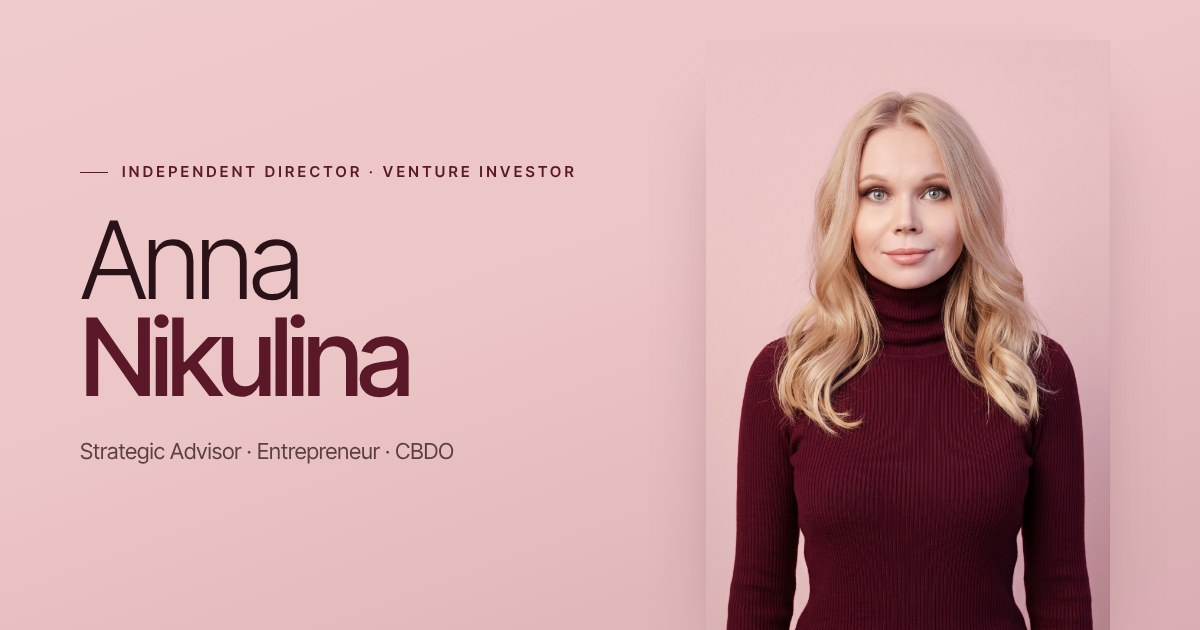
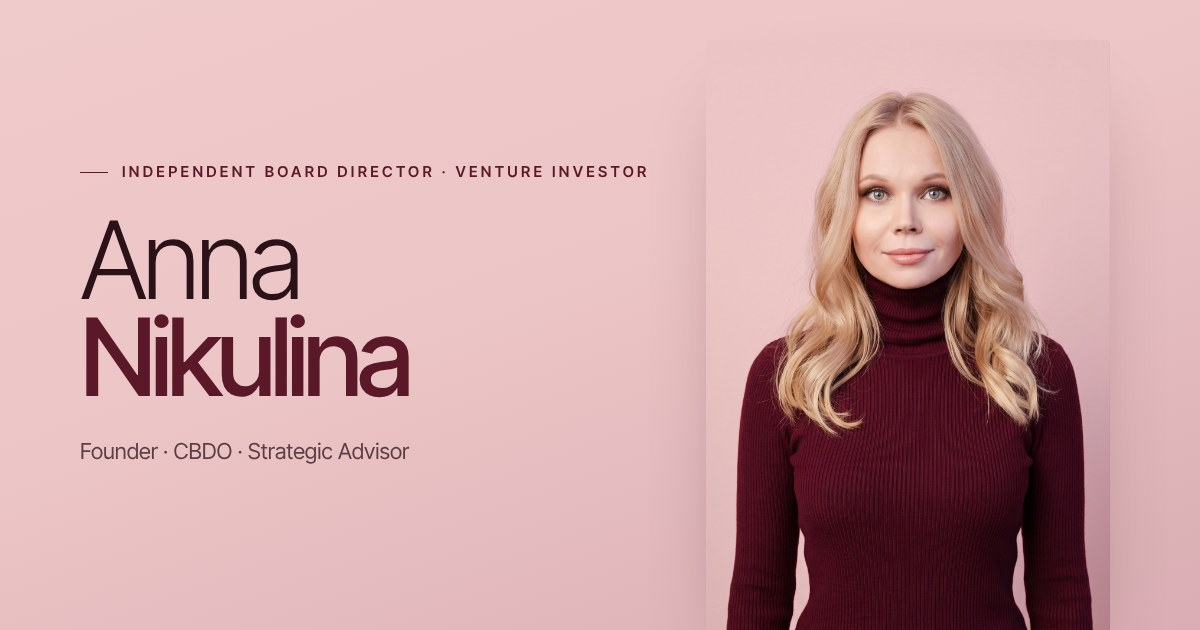
Hero: Founder wording, no bold in lead, board director eyebrow larger
Claude-Session: https://claude.ai/code/session_017zF6NKWSFQoNCEWFPX3gsG

Changed region(s): [[0.2158, 0.2413, 0.5242, 0.3016], [0.0617, 0.6937, 0.37, 0.754]]

diff --git a/annanikulina/index.html b/annanikulina/index.html
@@ -45,9 +45,9 @@
     <div class="hero-word" data-speed="0.35" aria-hidden="true">Никулина</div>
     <div class="wrap">
       <div class="hero-text">
-        <div class="eyebrow reveal">Независимый директор · Венчурный инвестор</div>
+        <div class="eyebrow reveal">Независимый директор в СД · Венчурный инвестор</div>
         <h1 class="reveal d1">Анна<span class="l2">Никулина</span></h1>
-        <p class="hero-lead reveal d2">Предприниматель, <strong>директор по развитию</strong> и <strong>советник по стратегическому развитию</strong>. Помогаю собственникам, инвесторам и стартапам принимать решения, которые выдерживают проверку временем.</p>
+        <p class="hero-lead reveal d2">Основатель, директор по развитию и советник по стратегическому развитию. Помогаю собственникам, инвесторам и стартапам принимать решения, которые выдерживают проверку временем.</p>
         <div class="hero-cta reveal d3">
           <a class="btn btn-wine" href="#contact">Связаться<svg viewBox="0 0 24 24" fill="none" stroke="currentColor" stroke-width="1.6" aria-hidden="true"><path d="M5 12h14M13 6l6 6-6 6"/></svg></a>
           <ul class="icon-row" aria-label="Мои каналы и соцсети"><li><a href="https://www.linkedin.com/in/anna-nikulina-cbdo/" target="_blank" rel="noopener" aria-label="LinkedIn: Anna Nikulina" title="LinkedIn: Anna Nikulina"><svg viewBox="0 0 24 24" fill="currentColor" aria-hidden="true"><path d="M4.98 3.5a2.5 2.5 0 1 1 0 5 2.5 2.5 0 0 1 0-5zM3 9.5h4V21H3zM10 9.5h3.8v1.6h.06c.53-1 1.83-2.06 3.77-2.06 4.03 0 4.77 2.65 4.77 6.1V21h-4v-5.1c0-1.22-.02-2.79-1.7-2.79-1.7 0-1.96 1.33-1.96 2.7V21h-4z"/></svg></a></li><li><a href="https://t.me/Anna_Niku" target="_blank" rel="noopener" aria-label="Написать в Telegram: @Anna_Niku" title="Написать в Telegram: @Anna_Niku"><svg viewBox="0 0 24 24" fill="currentColor" aria-hidden="true"><path d="M21.9 4.3 18.7 19.4c-.24 1.07-.87 1.33-1.76.83l-4.87-3.59-2.35 2.26c-.26.26-.48.48-.98.48l.35-4.96 9.03-8.16c.39-.35-.09-.54-.61-.2L6.36 13.1l-4.8-1.5c-1.04-.33-1.06-1.04.22-1.54L20.5 2.85c.87-.32 1.63.2 1.4 1.45z"/></svg></a></li><li class="has-word"><a href="https://t.me/STRATEGYNikulina" target="_blank" rel="noopener" aria-label="Telegram-канал STRATEGY" title="Telegram-канал STRATEGY"><svg viewBox="0 0 24 24" fill="currentColor" aria-hidden="true"><path d="M21.9 4.3 18.7 19.4c-.24 1.07-.87 1.33-1.76.83l-4.87-3.59-2.35 2.26c-.26.26-.48.48-.98.48l.35-4.96 9.03-8.16c.39-.35-.09-.54-.61-.2L6.36 13.1l-4.8-1.5c-1.04-.33-1.06-1.04.22-1.54L20.5 2.85c.87-.32 1.63.2 1.4 1.45z"/></svg><span>канал</span></a></li><li><a href="https://www.youtube.com/@STRATEGYNikulina" target="_blank" rel="noopener" aria-label="YouTube-канал STRATEGY" title="YouTube-канал STRATEGY"><svg viewBox="0 0 24 24" fill="currentColor" fill-rule="evenodd" aria-hidden="true"><path d="M23 7.2a3 3 0 0 0-2.1-2.1C19 4.6 12 4.6 12 4.6s-7 0-8.9.5A3 3 0 0 0 1 7.2 31 31 0 0 0 .5 12a31 31 0 0 0 .5 4.8 3 3 0 0 0 2.1 2.1c1.9.5 8.9.5 8.9.5s7 0 8.9-.5a3 3 0 0 0 2.1-2.1 31 31 0 0 0 .5-4.8 31 31 0 0 0-.5-4.8zM9.75 15.02V8.98L15.5 12z"/></svg></a></li><li><a href="https://rutube.ru/channel/30327202" target="_blank" rel="noopener" aria-label="RuTube-канал" title="RuTube-канал"><svg viewBox="0 0 24 24" aria-hidden="true"><rect x="2.6" y="2.6" width="18.8" height="18.8" rx="5" fill="none" stroke="currentColor" stroke-width="1.8"/><path d="M8.6 17V7.2h4.5a2.8 2.8 0 0 1 0 5.6H8.6M12.5 12.8l3 4.2" fill="none" stroke="currentColor" stroke-width="1.8" stroke-linecap="round" stroke-linejoin="round"/><circle cx="17" cy="7" r="1.4" fill="currentColor"/></svg></a></li></ul>
@@ -68,9 +68,9 @@
     <div class="wrap">
       <div class="section-head">
         <div class="reveal"><div class="eyebrow">Опыт</div><h2 class="h2">Опыт, который <b>работает</b> на результат</h2></div>
-        <p class="reveal d1">Банковский сектор, предпринимательство, венчурные инвестиции и участие в законотворчестве. Смотрю на бизнес одновременно глазами собственника, инвестора и риск-менеджера.</p>
+        <p class="reveal d1">Банковский сектор, создание собственных компаний, венчурные инвестиции и участие в законотворчестве. Смотрю на бизнес одновременно глазами собственника, инвестора и риск-менеджера.</p>
       </div>
-      <div class="xp"><article class="xp-item reveal"><div class="xp-num">01</div><h3 class="xp-title">Предпринимательский опыт B2B&nbsp;|&nbsp;B2C</h3><ul class="xp-list"><li>Совладелец российского бренда в сфере красоты и здоровья</li><li>Сооснователь глобального ИТ-стартапа</li><li>Ex-основатель FinTech-стартапа в России</li></ul></article><article class="xp-item reveal"><div class="xp-num">02</div><h3 class="xp-title">Банковский сектор</h3><ul class="xp-list"><li>Ex-Управляющий директор в ТОП-10 банках РФ (10+ тыс. сотрудников, активы ₽2 трлн)</li><li>Создание и управление корпоративными кредитными портфелями (миллиардные объёмы)</li><li>Эксперт по оценке устойчивости и кредитованию бизнеса и проектов: от МСБ до промышленных гигантов</li><li>Риск-менеджер с опытом антикризисного управления</li></ul></article><article class="xp-item reveal"><div class="xp-num">03</div><h3 class="xp-title">Инвестор</h3><ul class="xp-list"><li>Венчурный инвестор в технологические стартапы ранних стадий (глобальные рынки, успешный экзит)</li><li>Приглашённый эксперт и член жюри конкурсов стартапов</li></ul></article><article class="xp-item reveal"><div class="xp-num">04</div><h3 class="xp-title">Законодательная деятельность</h3><ul class="xp-list"><li>Участие в разработке ФЗ №259 «Об инвестиционных платформах» со стороны бизнеса</li></ul></article><article class="xp-item reveal"><div class="xp-num">05</div><h3 class="xp-title">Управленческий опыт</h3><ul class="xp-list"><li>15+ лет опыта в управлении (50+ филиалов, международные команды)</li><li>Риск-ориентированное и антикризисное управление</li></ul></article></div>
+      <div class="xp"><article class="xp-item reveal"><div class="xp-num">01</div><h3 class="xp-title">Опыт основателя B2B&nbsp;|&nbsp;B2C</h3><ul class="xp-list"><li>Совладелец российского бренда в сфере красоты и здоровья</li><li>Сооснователь глобального ИТ-стартапа</li><li>Ex-основатель FinTech-стартапа в России</li></ul></article><article class="xp-item reveal"><div class="xp-num">02</div><h3 class="xp-title">Банковский сектор</h3><ul class="xp-list"><li>Ex-Управляющий директор в ТОП-10 банках РФ (10+ тыс. сотрудников, активы ₽2 трлн)</li><li>Создание и управление корпоративными кредитными портфелями (миллиардные объёмы)</li><li>Эксперт по оценке устойчивости и кредитованию бизнеса и проектов: от МСБ до промышленных гигантов</li><li>Риск-менеджер с опытом антикризисного управления</li></ul></article><article class="xp-item reveal"><div class="xp-num">03</div><h3 class="xp-title">Инвестор</h3><ul class="xp-list"><li>Венчурный инвестор в технологические стартапы ранних стадий (глобальные рынки, успешный экзит)</li><li>Приглашённый эксперт и член жюри конкурсов стартапов</li></ul></article><article class="xp-item reveal"><div class="xp-num">04</div><h3 class="xp-title">Законодательная деятельность</h3><ul class="xp-list"><li>Участие в разработке ФЗ №259 «Об инвестиционных платформах» со стороны бизнеса</li></ul></article><article class="xp-item reveal"><div class="xp-num">05</div><h3 class="xp-title">Управленческий опыт</h3><ul class="xp-list"><li>15+ лет опыта в управлении (50+ филиалов, международные команды)</li><li>Риск-ориентированное и антикризисное управление</li></ul></article></div>
     </div>
   </section>
 
@@ -118,7 +118,7 @@
 </main>
 
 <footer class="footer">
-  <div class="wrap"><span>© 2026 Анна Никулина</span><ul class="icon-row icon-row-sm" aria-label="Мои каналы и соцсети"><li><a href="https://www.linkedin.com/in/anna-nikulina-cbdo/" target="_blank" rel="noopener" aria-label="LinkedIn: Anna Nikulina" title="LinkedIn: Anna Nikulina"><svg viewBox="0 0 24 24" fill="currentColor" aria-hidden="true"><path d="M4.98 3.5a2.5 2.5 0 1 1 0 5 2.5 2.5 0 0 1 0-5zM3 9.5h4V21H3zM10 9.5h3.8v1.6h.06c.53-1 1.83-2.06 3.77-2.06 4.03 0 4.77 2.65 4.77 6.1V21h-4v-5.1c0-1.22-.02-2.79-1.7-2.79-1.7 0-1.96 1.33-1.96 2.7V21h-4z"/></svg></a></li><li><a href="https://t.me/Anna_Niku" target="_blank" rel="noopener" aria-label="Написать в Telegram: @Anna_Niku" title="Написать в Telegram: @Anna_Niku"><svg viewBox="0 0 24 24" fill="currentColor" aria-hidden="true"><path d="M21.9 4.3 18.7 19.4c-.24 1.07-.87 1.33-1.76.83l-4.87-3.59-2.35 2.26c-.26.26-.48.48-.98.48l.35-4.96 9.03-8.16c.39-.35-.09-.54-.61-.2L6.36 13.1l-4.8-1.5c-1.04-.33-1.06-1.04.22-1.54L20.5 2.85c.87-.32 1.63.2 1.4 1.45z"/></svg></a></li><li class="has-word"><a href="https://t.me/STRATEGYNikulina" target="_blank" rel="noopener" aria-label="Telegram-канал STRATEGY" title="Telegram-канал STRATEGY"><svg viewBox="0 0 24 24" fill="currentColor" aria-hidden="true"><path d="M21.9 4.3 18.7 19.4c-.24 1.07-.87 1.33-1.76.83l-4.87-3.59-2.35 2.26c-.26.26-.48.48-.98.48l.35-4.96 9.03-8.16c.39-.35-.09-.54-.61-.2L6.36 13.1l-4.8-1.5c-1.04-.33-1.06-1.04.22-1.54L20.5 2.85c.87-.32 1.63.2 1.4 1.45z"/></svg><span>канал</span></a></li><li><a href="https://www.youtube.com/@STRATEGYNikulina" target="_blank" rel="noopener" aria-label="YouTube-канал STRATEGY" title="YouTube-канал STRATEGY"><svg viewBox="0 0 24 24" fill="currentColor" fill-rule="evenodd" aria-hidden="true"><path d="M23 7.2a3 3 0 0 0-2.1-2.1C19 4.6 12 4.6 12 4.6s-7 0-8.9.5A3 3 0 0 0 1 7.2 31 31 0 0 0 .5 12a31 31 0 0 0 .5 4.8 3 3 0 0 0 2.1 2.1c1.9.5 8.9.5 8.9.5s7 0 8.9-.5a3 3 0 0 0 2.1-2.1 31 31 0 0 0 .5-4.8 31 31 0 0 0-.5-4.8zM9.75 15.02V8.98L15.5 12z"/></svg></a></li><li><a href="https://rutube.ru/channel/30327202" target="_blank" rel="noopener" aria-label="RuTube-канал" title="RuTube-канал"><svg viewBox="0 0 24 24" aria-hidden="true"><rect x="2.6" y="2.6" width="18.8" height="18.8" rx="5" fill="none" stroke="currentColor" stroke-width="1.8"/><path d="M8.6 17V7.2h4.5a2.8 2.8 0 0 1 0 5.6H8.6M12.5 12.8l3 4.2" fill="none" stroke="currentColor" stroke-width="1.8" stroke-linecap="round" stroke-linejoin="round"/><circle cx="17" cy="7" r="1.4" fill="currentColor"/></svg></a></li></ul><span>Независимый директор · Венчурный инвестор</span></div>
+  <div class="wrap"><span>© 2026 Анна Никулина</span><ul class="icon-row icon-row-sm" aria-label="Мои каналы и соцсети"><li><a href="https://www.linkedin.com/in/anna-nikulina-cbdo/" target="_blank" rel="noopener" aria-label="LinkedIn: Anna Nikulina" title="LinkedIn: Anna Nikulina"><svg viewBox="0 0 24 24" fill="currentColor" aria-hidden="true"><path d="M4.98 3.5a2.5 2.5 0 1 1 0 5 2.5 2.5 0 0 1 0-5zM3 9.5h4V21H3zM10 9.5h3.8v1.6h.06c.53-1 1.83-2.06 3.77-2.06 4.03 0 4.77 2.65 4.77 6.1V21h-4v-5.1c0-1.22-.02-2.79-1.7-2.79-1.7 0-1.96 1.33-1.96 2.7V21h-4z"/></svg></a></li><li><a href="https://t.me/Anna_Niku" target="_blank" rel="noopener" aria-label="Написать в Telegram: @Anna_Niku" title="Написать в Telegram: @Anna_Niku"><svg viewBox="0 0 24 24" fill="currentColor" aria-hidden="true"><path d="M21.9 4.3 18.7 19.4c-.24 1.07-.87 1.33-1.76.83l-4.87-3.59-2.35 2.26c-.26.26-.48.48-.98.48l.35-4.96 9.03-8.16c.39-.35-.09-.54-.61-.2L6.36 13.1l-4.8-1.5c-1.04-.33-1.06-1.04.22-1.54L20.5 2.85c.87-.32 1.63.2 1.4 1.45z"/></svg></a></li><li class="has-word"><a href="https://t.me/STRATEGYNikulina" target="_blank" rel="noopener" aria-label="Telegram-канал STRATEGY" title="Telegram-канал STRATEGY"><svg viewBox="0 0 24 24" fill="currentColor" aria-hidden="true"><path d="M21.9 4.3 18.7 19.4c-.24 1.07-.87 1.33-1.76.83l-4.87-3.59-2.35 2.26c-.26.26-.48.48-.98.48l.35-4.96 9.03-8.16c.39-.35-.09-.54-.61-.2L6.36 13.1l-4.8-1.5c-1.04-.33-1.06-1.04.22-1.54L20.5 2.85c.87-.32 1.63.2 1.4 1.45z"/></svg><span>канал</span></a></li><li><a href="https://www.youtube.com/@STRATEGYNikulina" target="_blank" rel="noopener" aria-label="YouTube-канал STRATEGY" title="YouTube-канал STRATEGY"><svg viewBox="0 0 24 24" fill="currentColor" fill-rule="evenodd" aria-hidden="true"><path d="M23 7.2a3 3 0 0 0-2.1-2.1C19 4.6 12 4.6 12 4.6s-7 0-8.9.5A3 3 0 0 0 1 7.2 31 31 0 0 0 .5 12a31 31 0 0 0 .5 4.8 3 3 0 0 0 2.1 2.1c1.9.5 8.9.5 8.9.5s7 0 8.9-.5a3 3 0 0 0 2.1-2.1 31 31 0 0 0 .5-4.8 31 31 0 0 0-.5-4.8zM9.75 15.02V8.98L15.5 12z"/></svg></a></li><li><a href="https://rutube.ru/channel/30327202" target="_blank" rel="noopener" aria-label="RuTube-канал" title="RuTube-канал"><svg viewBox="0 0 24 24" aria-hidden="true"><rect x="2.6" y="2.6" width="18.8" height="18.8" rx="5" fill="none" stroke="currentColor" stroke-width="1.8"/><path d="M8.6 17V7.2h4.5a2.8 2.8 0 0 1 0 5.6H8.6M12.5 12.8l3 4.2" fill="none" stroke="currentColor" stroke-width="1.8" stroke-linecap="round" stroke-linejoin="round"/><circle cx="17" cy="7" r="1.4" fill="currentColor"/></svg></a></li></ul><span>Независимый директор в СД · Венчурный инвестор</span></div>
 </footer>
 
 <script src="../assets/site.js" defer></script>

diff --git a/en/index.html b/en/index.html
@@ -45,9 +45,9 @@
     <div class="hero-word" data-speed="0.35" aria-hidden="true">Nikulina</div>
     <div class="wrap">
       <div class="hero-text">
-        <div class="eyebrow reveal">Independent Director · Venture Investor</div>
+        <div class="eyebrow reveal">Independent Board Director · Venture Investor</div>
         <h1 class="reveal d1">Anna<span class="l2">Nikulina</span></h1>
-        <p class="hero-lead reveal d2">Entrepreneur, <strong>Chief Business Development Officer</strong> and <strong>Strategic Advisor</strong>. I help business owners, investors and founders make decisions that stand the test of time.</p>
+        <p class="hero-lead reveal d2">Founder, Chief Business Development Officer and Strategic Advisor. I help business owners, investors and founders make decisions that stand the test of time.</p>
         <div class="hero-cta reveal d3">
           <a class="btn btn-wine" href="#contact">Get in Touch<svg viewBox="0 0 24 24" fill="none" stroke="currentColor" stroke-width="1.6" aria-hidden="true"><path d="M5 12h14M13 6l6 6-6 6"/></svg></a>
           <ul class="icon-row" aria-label="Channels &amp; social media"><li><a href="https://www.linkedin.com/in/anna-nikulina-cbdo/" target="_blank" rel="noopener" aria-label="LinkedIn: Anna Nikulina" title="LinkedIn: Anna Nikulina"><svg viewBox="0 0 24 24" fill="currentColor" aria-hidden="true"><path d="M4.98 3.5a2.5 2.5 0 1 1 0 5 2.5 2.5 0 0 1 0-5zM3 9.5h4V21H3zM10 9.5h3.8v1.6h.06c.53-1 1.83-2.06 3.77-2.06 4.03 0 4.77 2.65 4.77 6.1V21h-4v-5.1c0-1.22-.02-2.79-1.7-2.79-1.7 0-1.96 1.33-1.96 2.7V21h-4z"/></svg></a></li><li><a href="https://t.me/Anna_Niku" target="_blank" rel="noopener" aria-label="Message on Telegram: @Anna_Niku" title="Message on Telegram: @Anna_Niku"><svg viewBox="0 0 24 24" fill="currentColor" aria-hidden="true"><path d="M21.9 4.3 18.7 19.4c-.24 1.07-.87 1.33-1.76.83l-4.87-3.59-2.35 2.26c-.26.26-.48.48-.98.48l.35-4.96 9.03-8.16c.39-.35-.09-.54-.61-.2L6.36 13.1l-4.8-1.5c-1.04-.33-1.06-1.04.22-1.54L20.5 2.85c.87-.32 1.63.2 1.4 1.45z"/></svg></a></li><li class="has-word"><a href="https://t.me/STRATEGYNikulina" target="_blank" rel="noopener" aria-label="Telegram channel STRATEGY (in Russian)" title="Telegram channel STRATEGY (in Russian)"><svg viewBox="0 0 24 24" fill="currentColor" aria-hidden="true"><path d="M21.9 4.3 18.7 19.4c-.24 1.07-.87 1.33-1.76.83l-4.87-3.59-2.35 2.26c-.26.26-.48.48-.98.48l.35-4.96 9.03-8.16c.39-.35-.09-.54-.61-.2L6.36 13.1l-4.8-1.5c-1.04-.33-1.06-1.04.22-1.54L20.5 2.85c.87-.32 1.63.2 1.4 1.45z"/></svg><span>channel</span></a></li><li><a href="https://www.youtube.com/@STRATEGYNikulina" target="_blank" rel="noopener" aria-label="YouTube channel STRATEGY (in Russian)" title="YouTube channel STRATEGY (in Russian)"><svg viewBox="0 0 24 24" fill="currentColor" fill-rule="evenodd" aria-hidden="true"><path d="M23 7.2a3 3 0 0 0-2.1-2.1C19 4.6 12 4.6 12 4.6s-7 0-8.9.5A3 3 0 0 0 1 7.2 31 31 0 0 0 .5 12a31 31 0 0 0 .5 4.8 3 3 0 0 0 2.1 2.1c1.9.5 8.9.5 8.9.5s7 0 8.9-.5a3 3 0 0 0 2.1-2.1 31 31 0 0 0 .5-4.8 31 31 0 0 0-.5-4.8zM9.75 15.02V8.98L15.5 12z"/></svg></a></li><li><a href="https://rutube.ru/channel/30327202" target="_blank" rel="noopener" aria-label="RuTube channel (in Russian)" title="RuTube channel (in Russian)"><svg viewBox="0 0 24 24" aria-hidden="true"><rect x="2.6" y="2.6" width="18.8" height="18.8" rx="5" fill="none" stroke="currentColor" stroke-width="1.8"/><path d="M8.6 17V7.2h4.5a2.8 2.8 0 0 1 0 5.6H8.6M12.5 12.8l3 4.2" fill="none" stroke="currentColor" stroke-width="1.8" stroke-linecap="round" stroke-linejoin="round"/><circle cx="17" cy="7" r="1.4" fill="currentColor"/></svg></a></li></ul>
@@ -68,9 +68,9 @@
     <div class="wrap">
       <div class="section-head">
         <div class="reveal"><div class="eyebrow">Track Record</div><h2 class="h2">Experience that <b>delivers</b> results</h2></div>
-        <p class="reveal d1">Banking, entrepreneurship, venture investing and policymaking. I look at every business through three lenses at once: owner, investor and risk manager.</p>
+        <p class="reveal d1">Banking, company building, venture investing and policymaking. I look at every business through three lenses at once: owner, investor and risk manager.</p>
       </div>
-      <div class="xp"><article class="xp-item reveal"><div class="xp-num">01</div><h3 class="xp-title">Entrepreneurship: B2B&nbsp;|&nbsp;B2C</h3><ul class="xp-list"><li>Co-owner of a Russian health &amp; beauty brand</li><li>Co-founder of a global tech startup</li><li>Former founder of a fintech startup in Russia</li></ul></article><article class="xp-item reveal"><div class="xp-num">02</div><h3 class="xp-title">Banking</h3><ul class="xp-list"><li>Former Managing Director at Top 10 Russian banks (10,000+ employees, RUB 2 trillion in assets)</li><li>Built and managed multibillion-ruble corporate loan portfolios</li><li>Expert in credit risk and financial resilience assessment for businesses and projects, from SMBs to industrial majors</li><li>Risk manager with a track record in crisis and turnaround management</li></ul></article><article class="xp-item reveal"><div class="xp-num">03</div><h3 class="xp-title">Venture Investing</h3><ul class="xp-list"><li>Venture investor in early-stage tech startups (global markets, with a successful exit)</li><li>Invited expert and judge at startup pitch competitions</li></ul></article><article class="xp-item reveal"><div class="xp-num">04</div><h3 class="xp-title">Policy &amp; Legislation</h3><ul class="xp-list"><li>Contributed to drafting Federal Law No.&nbsp;259-FZ on investment platforms (crowdfunding) in Russia, representing the business community</li></ul></article><article class="xp-item reveal"><div class="xp-num">05</div><h3 class="xp-title">Executive Leadership</h3><ul class="xp-list"><li>15+ years in executive leadership (50+ branches, international teams)</li><li>Risk-based and crisis management</li></ul></article></div>
+      <div class="xp"><article class="xp-item reveal"><div class="xp-num">01</div><h3 class="xp-title">Founder Experience: B2B&nbsp;|&nbsp;B2C</h3><ul class="xp-list"><li>Co-owner of a Russian health &amp; beauty brand</li><li>Co-founder of a global tech startup</li><li>Former founder of a fintech startup in Russia</li></ul></article><article class="xp-item reveal"><div class="xp-num">02</div><h3 class="xp-title">Banking</h3><ul class="xp-list"><li>Former Managing Director at Top 10 Russian banks (10,000+ employees, RUB 2 trillion in assets)</li><li>Built and managed multibillion-ruble corporate loan portfolios</li><li>Expert in credit risk and financial resilience assessment for businesses and projects, from SMBs to industrial majors</li><li>Risk manager with a track record in crisis and turnaround management</li></ul></article><article class="xp-item reveal"><div class="xp-num">03</div><h3 class="xp-title">Venture Investing</h3><ul class="xp-list"><li>Venture investor in early-stage tech startups (global markets, with a successful exit)</li><li>Invited expert and judge at startup pitch competitions</li></ul></article><article class="xp-item reveal"><div class="xp-num">04</div><h3 class="xp-title">Policy &amp; Legislation</h3><ul class="xp-list"><li>Contributed to drafting Federal Law No.&nbsp;259-FZ on investment platforms (crowdfunding) in Russia, representing the business community</li></ul></article><article class="xp-item reveal"><div class="xp-num">05</div><h3 class="xp-title">Executive Leadership</h3><ul class="xp-list"><li>15+ years in executive leadership (50+ branches, international teams)</li><li>Risk-based and crisis management</li></ul></article></div>
     </div>
   </section>
 
@@ -118,7 +118,7 @@
 </main>
 
 <footer class="footer">
-  <div class="wrap"><span>© 2026 Anna Nikulina</span><ul class="icon-row icon-row-sm" aria-label="Channels &amp; social media"><li><a href="https://www.linkedin.com/in/anna-nikulina-cbdo/" target="_blank" rel="noopener" aria-label="LinkedIn: Anna Nikulina" title="LinkedIn: Anna Nikulina"><svg viewBox="0 0 24 24" fill="currentColor" aria-hidden="true"><path d="M4.98 3.5a2.5 2.5 0 1 1 0 5 2.5 2.5 0 0 1 0-5zM3 9.5h4V21H3zM10 9.5h3.8v1.6h.06c.53-1 1.83-2.06 3.77-2.06 4.03 0 4.77 2.65 4.77 6.1V21h-4v-5.1c0-1.22-.02-2.79-1.7-2.79-1.7 0-1.96 1.33-1.96 2.7V21h-4z"/></svg></a></li><li><a href="https://t.me/Anna_Niku" target="_blank" rel="noopener" aria-label="Message on Telegram: @Anna_Niku" title="Message on Telegram: @Anna_Niku"><svg viewBox="0 0 24 24" fill="currentColor" aria-hidden="true"><path d="M21.9 4.3 18.7 19.4c-.24 1.07-.87 1.33-1.76.83l-4.87-3.59-2.35 2.26c-.26.26-.48.48-.98.48l.35-4.96 9.03-8.16c.39-.35-.09-.54-.61-.2L6.36 13.1l-4.8-1.5c-1.04-.33-1.06-1.04.22-1.54L20.5 2.85c.87-.32 1.63.2 1.4 1.45z"/></svg></a></li><li class="has-word"><a href="https://t.me/STRATEGYNikulina" target="_blank" rel="noopener" aria-label="Telegram channel STRATEGY (in Russian)" title="Telegram channel STRATEGY (in Russian)"><svg viewBox="0 0 24 24" fill="currentColor" aria-hidden="true"><path d="M21.9 4.3 18.7 19.4c-.24 1.07-.87 1.33-1.76.83l-4.87-3.59-2.35 2.26c-.26.26-.48.48-.98.48l.35-4.96 9.03-8.16c.39-.35-.09-.54-.61-.2L6.36 13.1l-4.8-1.5c-1.04-.33-1.06-1.04.22-1.54L20.5 2.85c.87-.32 1.63.2 1.4 1.45z"/></svg><span>channel</span></a></li><li><a href="https://www.youtube.com/@STRATEGYNikulina" target="_blank" rel="noopener" aria-label="YouTube channel STRATEGY (in Russian)" title="YouTube channel STRATEGY (in Russian)"><svg viewBox="0 0 24 24" fill="currentColor" fill-rule="evenodd" aria-hidden="true"><path d="M23 7.2a3 3 0 0 0-2.1-2.1C19 4.6 12 4.6 12 4.6s-7 0-8.9.5A3 3 0 0 0 1 7.2 31 31 0 0 0 .5 12a31 31 0 0 0 .5 4.8 3 3 0 0 0 2.1 2.1c1.9.5 8.9.5 8.9.5s7 0 8.9-.5a3 3 0 0 0 2.1-2.1 31 31 0 0 0 .5-4.8 31 31 0 0 0-.5-4.8zM9.75 15.02V8.98L15.5 12z"/></svg></a></li><li><a href="https://rutube.ru/channel/30327202" target="_blank" rel="noopener" aria-label="RuTube channel (in Russian)" title="RuTube channel (in Russian)"><svg viewBox="0 0 24 24" aria-hidden="true"><rect x="2.6" y="2.6" width="18.8" height="18.8" rx="5" fill="none" stroke="currentColor" stroke-width="1.8"/><path d="M8.6 17V7.2h4.5a2.8 2.8 0 0 1 0 5.6H8.6M12.5 12.8l3 4.2" fill="none" stroke="currentColor" stroke-width="1.8" stroke-linecap="round" stroke-linejoin="round"/><circle cx="17" cy="7" r="1.4" fill="currentColor"/></svg></a></li></ul><span>Independent Director · Venture Investor</span></div>
+  <div class="wrap"><span>© 2026 Anna Nikulina</span><ul class="icon-row icon-row-sm" aria-label="Channels &amp; social media"><li><a href="https://www.linkedin.com/in/anna-nikulina-cbdo/" target="_blank" rel="noopener" aria-label="LinkedIn: Anna Nikulina" title="LinkedIn: Anna Nikulina"><svg viewBox="0 0 24 24" fill="currentColor" aria-hidden="true"><path d="M4.98 3.5a2.5 2.5 0 1 1 0 5 2.5 2.5 0 0 1 0-5zM3 9.5h4V21H3zM10 9.5h3.8v1.6h.06c.53-1 1.83-2.06 3.77-2.06 4.03 0 4.77 2.65 4.77 6.1V21h-4v-5.1c0-1.22-.02-2.79-1.7-2.79-1.7 0-1.96 1.33-1.96 2.7V21h-4z"/></svg></a></li><li><a href="https://t.me/Anna_Niku" target="_blank" rel="noopener" aria-label="Message on Telegram: @Anna_Niku" title="Message on Telegram: @Anna_Niku"><svg viewBox="0 0 24 24" fill="currentColor" aria-hidden="true"><path d="M21.9 4.3 18.7 19.4c-.24 1.07-.87 1.33-1.76.83l-4.87-3.59-2.35 2.26c-.26.26-.48.48-.98.48l.35-4.96 9.03-8.16c.39-.35-.09-.54-.61-.2L6.36 13.1l-4.8-1.5c-1.04-.33-1.06-1.04.22-1.54L20.5 2.85c.87-.32 1.63.2 1.4 1.45z"/></svg></a></li><li class="has-word"><a href="https://t.me/STRATEGYNikulina" target="_blank" rel="noopener" aria-label="Telegram channel STRATEGY (in Russian)" title="Telegram channel STRATEGY (in Russian)"><svg viewBox="0 0 24 24" fill="currentColor" aria-hidden="true"><path d="M21.9 4.3 18.7 19.4c-.24 1.07-.87 1.33-1.76.83l-4.87-3.59-2.35 2.26c-.26.26-.48.48-.98.48l.35-4.96 9.03-8.16c.39-.35-.09-.54-.61-.2L6.36 13.1l-4.8-1.5c-1.04-.33-1.06-1.04.22-1.54L20.5 2.85c.87-.32 1.63.2 1.4 1.45z"/></svg><span>channel</span></a></li><li><a href="https://www.youtube.com/@STRATEGYNikulina" target="_blank" rel="noopener" aria-label="YouTube channel STRATEGY (in Russian)" title="YouTube channel STRATEGY (in Russian)"><svg viewBox="0 0 24 24" fill="currentColor" fill-rule="evenodd" aria-hidden="true"><path d="M23 7.2a3 3 0 0 0-2.1-2.1C19 4.6 12 4.6 12 4.6s-7 0-8.9.5A3 3 0 0 0 1 7.2 31 31 0 0 0 .5 12a31 31 0 0 0 .5 4.8 3 3 0 0 0 2.1 2.1c1.9.5 8.9.5 8.9.5s7 0 8.9-.5a3 3 0 0 0 2.1-2.1 31 31 0 0 0 .5-4.8 31 31 0 0 0-.5-4.8zM9.75 15.02V8.98L15.5 12z"/></svg></a></li><li><a href="https://rutube.ru/channel/30327202" target="_blank" rel="noopener" aria-label="RuTube channel (in Russian)" title="RuTube channel (in Russian)"><svg viewBox="0 0 24 24" aria-hidden="true"><rect x="2.6" y="2.6" width="18.8" height="18.8" rx="5" fill="none" stroke="currentColor" stroke-width="1.8"/><path d="M8.6 17V7.2h4.5a2.8 2.8 0 0 1 0 5.6H8.6M12.5 12.8l3 4.2" fill="none" stroke="currentColor" stroke-width="1.8" stroke-linecap="round" stroke-linejoin="round"/><circle cx="17" cy="7" r="1.4" fill="currentColor"/></svg></a></li></ul><span>Independent Board Director · Venture Investor</span></div>
 </footer>
 
 <script src="../assets/site.js" defer></script>

diff --git a/assets/site.css b/assets/site.css
@@ -72,6 +72,7 @@ ul{padding:0;list-style:none}
 .hero-word{position:absolute;left:50%;top:14%;z-index:-1;transform:translateX(-50%);white-space:nowrap;font-weight:600;font-size:clamp(120px,22vw,340px);line-height:.8;letter-spacing:-.06em;color:transparent;-webkit-text-stroke:1px rgba(90,24,40,.16);pointer-events:none;user-select:none;will-change:transform}
 .hero .wrap{display:grid;grid-template-columns:1.15fr .85fr;align-items:end;gap:56px;padding-top:120px}
 .hero-text{padding-bottom:clamp(64px,10vh,120px)}
+.hero .eyebrow{font-size:clamp(13px,1.1vw,15px);letter-spacing:.2em}
 .hero h1{font-weight:300;font-size:clamp(58px,8.4vw,124px);line-height:.9;letter-spacing:-.055em;margin:26px 0 30px;color:var(--text)}
 .hero h1 .l2{display:block;font-weight:500;color:var(--wine)}
 .hero-lead{max-width:540px;font-size:clamp(16px,1.3vw,19px);line-height:1.65;color:rgba(42,18,24,.78)}
@@ -235,6 +236,8 @@ section[id]{scroll-margin-top:72px}
 @media (max-width:560px){
   body{font-size:16px}
   .brand{font-size:13px;letter-spacing:.14em}
+  .hero .eyebrow::before{display:none}
+  .hero .eyebrow{letter-spacing:.16em;line-height:1.5}
   .photo{width:84%}
   .photo-tag{left:-14px;padding:12px 16px}
   .photo-tag b{font-size:24px}

diff --git a/tools/build.py b/tools/build.py
@@ -94,9 +94,9 @@ CONTENT = {
         'vd_source': 'rutube', 'vd_channel_url': RUTUBE, 'vd_eyebrow': 'Видео',
         'vd_title': 'Разговоры о <b>бизнесе</b>', 'vd_intro': 'Интервью с предпринимателями и экспертами на моём канале. Нажмите на выпуск, и он откроется прямо здесь.',
         'vd_more': 'Показать все видео', 'vd_less': 'Свернуть', 'vd_channel': 'Канал на RuTube', 'vd_close': 'Закрыть', 'vd_guest': 'Гость:', 'vd_latest': 'Новый выпуск',
-        'eyebrow': 'Независимый директор · Венчурный инвестор',
+        'eyebrow': 'Независимый директор в СД · Венчурный инвестор',
         'h1_1': 'Анна', 'h1_2': 'Никулина',
-        'lead': 'Предприниматель, <strong>директор по развитию</strong> и <strong>советник по стратегическому развитию</strong>. Помогаю собственникам, инвесторам и стартапам принимать решения, которые выдерживают проверку временем.',
+        'lead': 'Основатель, директор по развитию и советник по стратегическому развитию. Помогаю собственникам, инвесторам и стартапам принимать решения, которые выдерживают проверку временем.',
         'cta_main': 'Связаться', 'cta_second': 'Telegram-канал',
         'portrait_alt': 'Анна Никулина',
         'tag_num': '15+', 'tag_text': 'лет в управлении',
@@ -104,9 +104,9 @@ CONTENT = {
         'stats': [('15+', 'лет управленческого опыта'), ('50+', 'филиалов под управлением'),
                   ('₽2 трлн', 'активы банка из ТОП-10 РФ'), ('10 000+', 'сотрудников в банках, где я работала')],
         'xp_eyebrow': 'Опыт', 'xp_title': 'Опыт, который <b>работает</b> на результат',
-        'xp_intro': 'Банковский сектор, предпринимательство, венчурные инвестиции и участие в законотворчестве. Смотрю на бизнес одновременно глазами собственника, инвестора и риск-менеджера.',
+        'xp_intro': 'Банковский сектор, создание собственных компаний, венчурные инвестиции и участие в законотворчестве. Смотрю на бизнес одновременно глазами собственника, инвестора и риск-менеджера.',
         'xp': [
-            ('Предпринимательский опыт B2B&nbsp;|&nbsp;B2C', ['Совладелец российского бренда в сфере красоты и здоровья', 'Сооснователь глобального ИТ-стартапа', 'Ex-основатель FinTech-стартапа в России']),
+            ('Опыт основателя B2B&nbsp;|&nbsp;B2C', ['Совладелец российского бренда в сфере красоты и здоровья', 'Сооснователь глобального ИТ-стартапа', 'Ex-основатель FinTech-стартапа в России']),
             ('Банковский сектор', ['Ex-Управляющий директор в ТОП-10 банках РФ (10+ тыс. сотрудников, активы ₽2 трлн)', 'Создание и управление корпоративными кредитными портфелями (миллиардные объёмы)', 'Эксперт по оценке устойчивости и кредитованию бизнеса и проектов: от МСБ до промышленных гигантов', 'Риск-менеджер с опытом антикризисного управления']),
             ('Инвестор', ['Венчурный инвестор в технологические стартапы ранних стадий (глобальные рынки, успешный экзит)', 'Приглашённый эксперт и член жюри конкурсов стартапов']),
             ('Законодательная деятельность', ['Участие в разработке ФЗ №259 «Об инвестиционных платформах» со стороны бизнеса']),
@@ -126,7 +126,7 @@ CONTENT = {
         'socials_title': 'Мои каналы и соцсети',
         'links': [('in', 'LinkedIn', 'LinkedIn: Anna Nikulina', LINKEDIN), ('tg', 'Telegram', 'Написать в Telegram: @Anna_Niku', TG_PERSONAL),
                   ('tg', 'Telegram-канал', 'Telegram-канал STRATEGY', TG_CHANNEL, 'канал'), ('yt', 'YouTube', 'YouTube-канал STRATEGY', YOUTUBE), ('rt', 'RuTube', 'RuTube-канал', RUTUBE)],
-        'footer_left': '© 2026 Анна Никулина', 'footer_right': 'Независимый директор · Венчурный инвестор',
+        'footer_left': '© 2026 Анна Никулина', 'footer_right': 'Независимый директор в СД · Венчурный инвестор',
     },
     'en': {
         'lang': 'en', 'dir': 'en', 'url': BASE + '/en/',
@@ -137,9 +137,9 @@ CONTENT = {
         'vd_source': 'youtube', 'vd_channel_url': YOUTUBE, 'vd_eyebrow': 'Videos',
         'vd_title': 'Conversations on <b>business</b>', 'vd_intro': 'Interviews with entrepreneurs and experts on my YouTube channel (mostly in Russian). Click any episode to play it right here.',
         'vd_more': 'Show all videos', 'vd_less': 'Show less', 'vd_channel': 'YouTube channel', 'vd_close': 'Close', 'vd_guest': 'Guest:', 'vd_latest': 'Latest episode',
-        'eyebrow': 'Independent Director · Venture Investor',
+        'eyebrow': 'Independent Board Director · Venture Investor',
         'h1_1': 'Anna', 'h1_2': 'Nikulina',
-        'lead': 'Entrepreneur, <strong>Chief Business Development Officer</strong> and <strong>Strategic Advisor</strong>. I help business owners, investors and founders make decisions that stand the test of time.',
+        'lead': 'Founder, Chief Business Development Officer and Strategic Advisor. I help business owners, investors and founders make decisions that stand the test of time.',
         'cta_main': 'Get in Touch', 'cta_second': 'Telegram Channel',
         'portrait_alt': 'Anna Nikulina',
         'tag_num': '15+', 'tag_text': 'years in leadership',
@@ -147,9 +147,9 @@ CONTENT = {
         'stats': [('15+', 'years of executive leadership'), ('50+', 'branches managed'),
                   ('RUB 2T', 'in assets at a Top 10 Russian bank'), ('10,000+', 'employees at the banks I worked for')],
         'xp_eyebrow': 'Track Record', 'xp_title': 'Experience that <b>delivers</b> results',
-        'xp_intro': 'Banking, entrepreneurship, venture investing and policymaking. I look at every business through three lenses at once: owner, investor and risk manager.',
+        'xp_intro': 'Banking, company building, venture investing and policymaking. I look at every business through three lenses at once: owner, investor and risk manager.',
         'xp': [
-            ('Entrepreneurship: B2B&nbsp;|&nbsp;B2C', ['Co-owner of a Russian health &amp; beauty brand', 'Co-founder of a global tech startup', 'Former founder of a fintech startup in Russia']),
+            ('Founder Experience: B2B&nbsp;|&nbsp;B2C', ['Co-owner of a Russian health &amp; beauty brand', 'Co-founder of a global tech startup', 'Former founder of a fintech startup in Russia']),
             ('Banking', ['Former Managing Director at Top 10 Russian banks (10,000+ employees, RUB 2 trillion in assets)', 'Built and managed multibillion-ruble corporate loan portfolios', 'Expert in credit risk and financial resilience assessment for businesses and projects, from SMBs to industrial majors', 'Risk manager with a track record in crisis and turnaround management']),
             ('Venture Investing', ['Venture investor in early-stage tech startups (global markets, with a successful exit)', 'Invited expert and judge at startup pitch competitions']),
             ('Policy &amp; Legislation', ['Contributed to drafting Federal Law No.&nbsp;259-FZ on investment platforms (crowdfunding) in Russia, representing the business community']),
@@ -169,7 +169,7 @@ CONTENT = {
         'socials_title': 'Channels &amp; social media',
         'links': [('in', 'LinkedIn', 'LinkedIn: Anna Nikulina', LINKEDIN), ('tg', 'Telegram', 'Message on Telegram: @Anna_Niku', TG_PERSONAL),
                   ('tg', 'Telegram Channel', 'Telegram channel STRATEGY (in Russian)', TG_CHANNEL, 'channel'), ('yt', 'YouTube', 'YouTube channel STRATEGY (in Russian)', YOUTUBE), ('rt', 'RuTube', 'RuTube channel (in Russian)', RUTUBE)],
-        'footer_left': '© 2026 Anna Nikulina', 'footer_right': 'Independent Director · Venture Investor',
+        'footer_left': '© 2026 Anna Nikulina', 'footer_right': 'Independent Board Director · Venture Investor',
     },
 }
 
